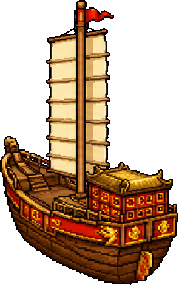
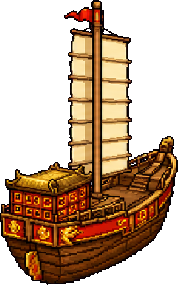
CPDD 英文名 · 船的对角精灵镜像修复 (20260817e)
CPDD 对齐（owner）：英文改成 CPDD 的说法，中文一个字没动
- The Beginner's Pier / G1 Basic Chinese / G2 Chinese / G3 Chinese / G3 Higher Chinese
- index.html 落地卡 4 + 海图牌 5，XH_index.html 顶栏 1，guide.html STATIONS 8
  共 18 处，改完逐条 assert 过唯一性
- 英文带年级前缀与中文那行重复了一次 G1，这是 owner 要的口径，不是疏漏

bug: 码头→G3 船用侧舷在走（owner）
航向数学是对的，headingAt 一行都没改 —— 错的是美术。
码头→G3 方位角 −38.8°（右上），落进 away_diag 桶不翻转，
而 boat_t1_away_diag.png 的船身轴画成 +27°（右下），整整反了一个镜像，
船身与航向差 65.8°，那正是侧舷在前。
只有这一条航线会踩到：dock 出发的另外三条落在 broadside 与 away 桶里。

t2 是对的（与旧的 art/seamap/boat_*.png 逐字节相同，代码当初照着它写）。
t1/t3/t4 三套新美术的 away_diag 全部反了，toward_diag 四套都对。
修法是水平镜像，无重采样无调色板变化，不碰像素画缩放陷阱。
原件留在 archived_art/。

PCA 必须量船身不能量整张图：t3/t4 带桅杆，整张 alpha 的主轴被桅杆和帆主导，
量出来是 −87°/+79° 这种垂直值，完全看不出问题；只取画面下 45% 才读到
真实的 +26.3°/+20.6°。第一遍被桅杆骗过去、差点判 t3/t4 没问题。

实测：码头→G3 船身/航向夹角 65.8° → 11.8°，其余航线一度未变；
四个 tier 的 away_diag 与 toward_diag 现在符号一致。

diff --git a/index.html b/index.html
@@ -5,7 +5,7 @@
 <meta name="viewport" content="width=device-width, initial-scale=1.0">
 <title>词山学海 · Vocab Summit · 百德中学</title>
 <link href="https://fonts.googleapis.com/css2?family=Noto+Serif+SC:wght@700;900&family=Noto+Sans+SC:wght@400;500;700&display=swap" rel="stylesheet">
-<link rel="stylesheet" href="css/app.css?v=20260817d">
+<link rel="stylesheet" href="css/app.css?v=20260817e">
 </head>
 <body class="lp-body">
 
@@ -24,13 +24,13 @@
 
   <div class="lp-cards" id="lpCards" style="display:none">
     <a class="lp-card" href="G1_index.html"><span class="lp-plq p1"></span>
-      <div><b>词星大冒险</b><span class="pylab xh-py xh-uipy">cí xīng dà mào xiǎn</span><span class="lv">G1 基础华文<span class="enlab xh-en">Foundation Chinese</span></span></div></a>
+      <div><b>词星大冒险</b><span class="pylab xh-py xh-uipy">cí xīng dà mào xiǎn</span><span class="lv">G1 基础华文<span class="enlab xh-en">G1 Basic Chinese</span></span></div></a>
     <a class="lp-card" href="G2_index.html"><span class="lp-plq p2"></span>
-      <div><b>词将竞技场</b><span class="pylab xh-py xh-uipy">cí jiàng jìng jì chǎng</span><span class="lv">G2 华文<span class="enlab xh-en">Chinese</span></span></div></a>
+      <div><b>词将竞技场</b><span class="pylab xh-py xh-uipy">cí jiàng jìng jì chǎng</span><span class="lv">G2 华文<span class="enlab xh-en">G2 Chinese</span></span></div></a>
     <a class="lp-card" href="G3_index.html"><span class="lp-plq p3"></span>
-      <div><b>词王淬炼坊</b><span class="pylab xh-py xh-uipy">cí wáng cuì liàn fáng</span><span class="lv">G3 华文<span class="enlab xh-en">Express Chinese</span></span></div></a>
+      <div><b>词王淬炼坊</b><span class="pylab xh-py xh-uipy">cí wáng cuì liàn fáng</span><span class="lv">G3 华文<span class="enlab xh-en">G3 Chinese</span></span></div></a>
     <a class="lp-card" href="HCL_index.html"><span class="lp-plq p4"></span>
-      <div><b>词圣鸿文苑</b><span class="pylab xh-py xh-uipy">cí shèng hóng wén yuàn</span><span class="lv">G3 高级华文<span class="enlab xh-en">Higher Chinese</span></span></div></a>
+      <div><b>词圣鸿文苑</b><span class="pylab xh-py xh-uipy">cí shèng hóng wén yuàn</span><span class="lv">G3 高级华文<span class="enlab xh-en">G3 Higher Chinese</span></span></div></a>
   </div>
 
 <!-- ===== 航海选择页 · sea map =====
@@ -52,25 +52,25 @@
   <button class="sea-isle i-g2" data-go="G2_index.html"
           aria-label="前往 词将竞技场 · G2 华文">
     <img src="art/seamap/island_g2.png" alt="">
-    <span class="sea-label"><b>词将竞技场</b><span class="pylab xh-py xh-uipy">cí jiàng jìng jì chǎng</span><span class="lv">G2 华文<span class="enlab xh-en">Chinese</span></span></span>
+    <span class="sea-label"><b>词将竞技场</b><span class="pylab xh-py xh-uipy">cí jiàng jìng jì chǎng</span><span class="lv">G2 华文<span class="enlab xh-en">G2 Chinese</span></span></span>
   </button>
 
   <button class="sea-isle i-g3" data-go="G3_index.html"
           aria-label="前往 词王淬炼坊 · G3 华文">
     <img src="art/seamap/island_g3.png" alt="">
-    <span class="sea-label"><b>词王淬炼坊</b><span class="pylab xh-py xh-uipy">cí wáng cuì liàn fáng</span><span class="lv">G3 华文<span class="enlab xh-en">Express Chinese</span></span></span>
+    <span class="sea-label"><b>词王淬炼坊</b><span class="pylab xh-py xh-uipy">cí wáng cuì liàn fáng</span><span class="lv">G3 华文<span class="enlab xh-en">G3 Chinese</span></span></span>
   </button>
 
   <button class="sea-isle i-hcl" data-go="HCL_index.html"
           aria-label="前往 词圣鸿文苑 · G3 高级华文">
     <img src="art/seamap/island_hcl.png" alt="">
-    <span class="sea-label"><b>词圣鸿文苑</b><span class="pylab xh-py xh-uipy">cí shèng hóng wén yuàn</span><span class="lv">G3 高级华文<span class="enlab xh-en">Higher Chinese</span></span></span>
+    <span class="sea-label"><b>词圣鸿文苑</b><span class="pylab xh-py xh-uipy">cí shèng hóng wén yuàn</span><span class="lv">G3 高级华文<span class="enlab xh-en">G3 Higher Chinese</span></span></span>
   </button>
 
   <button class="sea-isle i-g1" data-go="G1_index.html"
           aria-label="前往 词星大冒险 · G1 基础华文">
     <img src="art/seamap/island_g1.png" alt="">
-    <span class="sea-label"><b>词星大冒险</b><span class="pylab xh-py xh-uipy">cí xīng dà mào xiǎn</span><span class="lv">G1 基础华文<span class="enlab xh-en">Foundation Chinese</span></span></span>
+    <span class="sea-label"><b>词星大冒险</b><span class="pylab xh-py xh-uipy">cí xīng dà mào xiǎn</span><span class="lv">G1 基础华文<span class="enlab xh-en">G1 Basic Chinese</span></span></span>
   </button>
 
   <button class="sea-isle i-dock" data-go="XH_index.html"
@@ -79,7 +79,7 @@
     <!-- ⚠ every other isle's .lv is the TIER (「G1 基础华文」); this one said
          「看图学词」, a single activity, and one whose name has since changed to
          词语闪卡. The aria-label above was already right. -->
-    <span class="sea-label"><b>启航码头</b><span class="pylab xh-py xh-uipy">qǐ háng mǎ tóu</span><span class="lv">学海启航<span class="enlab xh-en">Setting sail — the beginner tier</span></span></span>
+    <span class="sea-label"><b>启航码头</b><span class="pylab xh-py xh-uipy">qǐ háng mǎ tóu</span><span class="lv">学海启航<span class="enlab xh-en">The Beginner's Pier</span></span></span>
   </button>
 
   <span class="sea-boat h-away_diag" id="lpBoat" aria-hidden="true"><img src="art/seamap/boat_away_diag.png" alt=""></span>
@@ -97,9 +97,9 @@
 <script src="https://www.gstatic.com/firebasejs/10.14.1/firebase-app-compat.js"></script>
 <script src="https://www.gstatic.com/firebasejs/10.14.1/firebase-auth-compat.js"></script>
 <script src="https://www.gstatic.com/firebasejs/10.14.1/firebase-firestore-compat.js"></script>
-<script src="js/firebase-init.js?v=20260817d"></script>
-<script src="js/profile.js?v=20260817d"></script>
-<script src="js/search.js?v=20260817d"></script>
-<script src="js/nickname.js?v=20260817d"></script>
+<script src="js/firebase-init.js?v=20260817e"></script>
+<script src="js/profile.js?v=20260817e"></script>
+<script src="js/search.js?v=20260817e"></script>
+<script src="js/nickname.js?v=20260817e"></script>
 </body>
 </html>

diff --git a/guide.html b/guide.html
@@ -1198,26 +1198,26 @@ body.L-both .demo-head .en{font-size:12.5px}
   ];
 
   var STATIONS = [
-    { img: "art/seamap/dock_jetty.png", zh: "启航码头", en: "The Departure Pier",
+    { img: "art/seamap/dock_jetty.png", zh: "启航码头", en: "The Beginner's Pier",
       lv: "学海启航 · pre-G1", href: "XH_index.html",
       dzh: "零起点。看图学词，从第一个汉字开始。149 个词，八个组别。",
       den: "Starting from zero. Words learned from pictures, from the very first character. 149 words in eight groups." },
-    { img: "art/seamap/island_g1.png", zh: "词星大冒险", en: "G1 · 基础华文",
+    { img: "art/seamap/island_g1.png", zh: "词星大冒险", en: "G1 Basic Chinese",
       lv: "426 词", href: "G1_index.html",
       dzh: "G1 基础华文。三个板块：核心 · 生活空间 · 文化站。",
-      den: "G1 Foundation Chinese. Three component blocks: core, everyday life, culture." },
-    { img: "art/seamap/island_g2.png", zh: "词将竞技场", en: "G2 · 华文",
+      den: "G1 Basic Chinese. Three component blocks: core, everyday life, culture." },
+    { img: "art/seamap/island_g2.png", zh: "词将竞技场", en: "G2 Chinese",
       lv: "814 词", href: "G2_index.html",
       dzh: "G2 华文。四个板块，多一层「巩固」。",
       den: "G2 Chinese. Four component blocks, adding consolidation." },
-    { img: "art/seamap/island_g3.png", zh: "词王淬炼坊", en: "G3 · 快捷华文",
+    { img: "art/seamap/island_g3.png", zh: "词王淬炼坊", en: "G3 Chinese",
       lv: "1,069 词", href: "G3_index.html",
       dzh: "G3 快捷华文。四个板块，另有 词语汉兜 猜字游戏。",
-      den: "G3 Express Chinese. Four component blocks, plus the character-guessing game." },
-    { img: "art/seamap/island_hcl.png", zh: "词圣鸿文苑", en: "Higher Chinese",
+      den: "G3 Chinese. Four component blocks, plus the character-guessing game." },
+    { img: "art/seamap/island_hcl.png", zh: "词圣鸿文苑", en: "G3 Higher Chinese",
       lv: "1,432 词", href: "HCL_index.html",
       dzh: "高级华文。五个板块，多一层「进阶」。⚠ 这一层不发拼音与英文注解。",
-      den: "Higher Chinese. Five component blocks, adding an advanced tier. ⚠ This tier ships no pinyin or English aids." }
+      den: "G3 Higher Chinese. Five component blocks, adding an advanced tier. ⚠ This tier ships no pinyin or English aids." }
   ];
 
   var MTN_STUDY = [

diff --git a/XH_index.html b/XH_index.html
@@ -19,7 +19,7 @@
      than any duplication. app.css is still NEVER loaded; the handful of rules
      those two files need are copied into xh.css. Progress stays sealed: nothing
      here reads or writes ws2_*. -->
-<link rel="stylesheet" href="css/xh.css?v=20260817d">
+<link rel="stylesheet" href="css/xh.css?v=20260817e">
 </head>
 <body>
 
@@ -38,7 +38,7 @@
          names the stream's LEVEL (app.js setTopbar: 词山学海 Vocab Summit · G2
          普通学术华文). The pier is a tier of the same platform, so it says so.
          ⚠ The pinyin covers the WHOLE visible Chinese string, not just the tail. -->
-    <div class="lv">词山学海 Vocab Summit · 学海启航<span class="xh-uipy">cí shān xué hǎi · xué hǎi qǐ háng</span><span class="xh-en">Setting sail — the beginner tier</span></div>
+    <div class="lv">词山学海 Vocab Summit · 学海启航<span class="xh-uipy">cí shān xué hǎi · xué hǎi qǐ háng</span><span class="xh-en">The Beginner's Pier</span></div>
   </div>
   <div class="xh-tools" id="xhTools"></div>
 </div>
@@ -48,11 +48,11 @@
 <script src="https://www.gstatic.com/firebasejs/10.14.1/firebase-app-compat.js"></script>
 <script src="https://www.gstatic.com/firebasejs/10.14.1/firebase-auth-compat.js"></script>
 <script src="https://www.gstatic.com/firebasejs/10.14.1/firebase-firestore-compat.js"></script>
-<script src="js/firebase-init.js?v=20260817d"></script>
-<script src="js/profile.js?v=20260817d"></script>
-<script src="js/nickname.js?v=20260817d"></script>
-<script src="js/search.js?v=20260817d"></script>
-<script src="js/tts.js?v=20260817d"></script>
-<script src="js/xh.js?v=20260817d"></script>
+<script src="js/firebase-init.js?v=20260817e"></script>
+<script src="js/profile.js?v=20260817e"></script>
+<script src="js/nickname.js?v=20260817e"></script>
+<script src="js/search.js?v=20260817e"></script>
+<script src="js/tts.js?v=20260817e"></script>
+<script src="js/xh.js?v=20260817e"></script>
 </body>
 </html>

diff --git a/HCL_index.html b/HCL_index.html
@@ -5,7 +5,7 @@
 <meta name="viewport" content="width=device-width, initial-scale=1.0">
 <title>词圣鸿文苑 · 词山学海 Vocab Summit</title>
 <link href="https://fonts.googleapis.com/css2?family=Noto+Serif+SC:wght@700;900&family=Noto+Sans+SC:wght@400;500;700&display=swap" rel="stylesheet">
-<link rel="stylesheet" href="css/app.css?v=20260817d">
+<link rel="stylesheet" href="css/app.css?v=20260817e">
 <script>window.STREAM = "hcl";</script>
 </head>
 <body>
@@ -13,12 +13,12 @@
 <script src="https://www.gstatic.com/firebasejs/10.14.1/firebase-app-compat.js"></script>
 <script src="https://www.gstatic.com/firebasejs/10.14.1/firebase-auth-compat.js"></script>
 <script src="https://www.gstatic.com/firebasejs/10.14.1/firebase-firestore-compat.js"></script>
-<script src="js/firebase-init.js?v=20260817d"></script>
-<script src="js/profile.js?v=20260817d"></script>
-<script src="js/podium.js?v=20260817d"></script>
-<script src="js/arena.js?v=20260817d"></script>
-<script src="js/search.js?v=20260817d"></script>
-<script src="js/tts.js?v=20260817d"></script>
-<script src="js/app.js?v=20260817d"></script>
+<script src="js/firebase-init.js?v=20260817e"></script>
+<script src="js/profile.js?v=20260817e"></script>
+<script src="js/podium.js?v=20260817e"></script>
+<script src="js/arena.js?v=20260817e"></script>
+<script src="js/search.js?v=20260817e"></script>
+<script src="js/tts.js?v=20260817e"></script>
+<script src="js/app.js?v=20260817e"></script>
 </body>
 </html>

diff --git a/G1_index.html b/G1_index.html
@@ -5,7 +5,7 @@
 <meta name="viewport" content="width=device-width, initial-scale=1.0">
 <title>词星大冒险 · 词山学海 Vocab Summit</title>
 <link href="https://fonts.googleapis.com/css2?family=Noto+Serif+SC:wght@700;900&family=Noto+Sans+SC:wght@400;500;700&display=swap" rel="stylesheet">
-<link rel="stylesheet" href="css/app.css?v=20260817d">
+<link rel="stylesheet" href="css/app.css?v=20260817e">
 <script>window.STREAM = "g1";</script>
 </head>
 <body>
@@ -13,12 +13,12 @@
 <script src="https://www.gstatic.com/firebasejs/10.14.1/firebase-app-compat.js"></script>
 <script src="https://www.gstatic.com/firebasejs/10.14.1/firebase-auth-compat.js"></script>
 <script src="https://www.gstatic.com/firebasejs/10.14.1/firebase-firestore-compat.js"></script>
-<script src="js/firebase-init.js?v=20260817d"></script>
-<script src="js/profile.js?v=20260817d"></script>
-<script src="js/podium.js?v=20260817d"></script>
-<script src="js/arena.js?v=20260817d"></script>
-<script src="js/search.js?v=20260817d"></script>
-<script src="js/tts.js?v=20260817d"></script>
-<script src="js/app.js?v=20260817d"></script>
+<script src="js/firebase-init.js?v=20260817e"></script>
+<script src="js/profile.js?v=20260817e"></script>
+<script src="js/podium.js?v=20260817e"></script>
+<script src="js/arena.js?v=20260817e"></script>
+<script src="js/search.js?v=20260817e"></script>
+<script src="js/tts.js?v=20260817e"></script>
+<script src="js/app.js?v=20260817e"></script>
 </body>
 </html>

diff --git a/G2_index.html b/G2_index.html
@@ -5,7 +5,7 @@
 <meta name="viewport" content="width=device-width, initial-scale=1.0">
 <title>词将竞技场 · 词山学海 Vocab Summit</title>
 <link href="https://fonts.googleapis.com/css2?family=Noto+Serif+SC:wght@700;900&family=Noto+Sans+SC:wght@400;500;700&display=swap" rel="stylesheet">
-<link rel="stylesheet" href="css/app.css?v=20260817d">
+<link rel="stylesheet" href="css/app.css?v=20260817e">
 <script>window.STREAM = "g2";</script>
 </head>
 <body>
@@ -13,12 +13,12 @@
 <script src="https://www.gstatic.com/firebasejs/10.14.1/firebase-app-compat.js"></script>
 <script src="https://www.gstatic.com/firebasejs/10.14.1/firebase-auth-compat.js"></script>
 <script src="https://www.gstatic.com/firebasejs/10.14.1/firebase-firestore-compat.js"></script>
-<script src="js/firebase-init.js?v=20260817d"></script>
-<script src="js/profile.js?v=20260817d"></script>
-<script src="js/podium.js?v=20260817d"></script>
-<script src="js/arena.js?v=20260817d"></script>
-<script src="js/search.js?v=20260817d"></script>
-<script src="js/tts.js?v=20260817d"></script>
-<script src="js/app.js?v=20260817d"></script>
+<script src="js/firebase-init.js?v=20260817e"></script>
+<script src="js/profile.js?v=20260817e"></script>
+<script src="js/podium.js?v=20260817e"></script>
+<script src="js/arena.js?v=20260817e"></script>
+<script src="js/search.js?v=20260817e"></script>
+<script src="js/tts.js?v=20260817e"></script>
+<script src="js/app.js?v=20260817e"></script>
 </body>
 </html>

diff --git a/G3_index.html b/G3_index.html
@@ -5,7 +5,7 @@
 <meta name="viewport" content="width=device-width, initial-scale=1.0">
 <title>词王淬炼坊 · 词山学海 Vocab Summit</title>
 <link href="https://fonts.googleapis.com/css2?family=Noto+Serif+SC:wght@700;900&family=Noto+Sans+SC:wght@400;500;700&display=swap" rel="stylesheet">
-<link rel="stylesheet" href="css/app.css?v=20260817d">
+<link rel="stylesheet" href="css/app.css?v=20260817e">
 <script>window.STREAM = "g3";</script>
 </head>
 <body>
@@ -13,12 +13,12 @@
 <script src="https://www.gstatic.com/firebasejs/10.14.1/firebase-app-compat.js"></script>
 <script src="https://www.gstatic.com/firebasejs/10.14.1/firebase-auth-compat.js"></script>
 <script src="https://www.gstatic.com/firebasejs/10.14.1/firebase-firestore-compat.js"></script>
-<script src="js/firebase-init.js?v=20260817d"></script>
-<script src="js/profile.js?v=20260817d"></script>
-<script src="js/podium.js?v=20260817d"></script>
-<script src="js/arena.js?v=20260817d"></script>
-<script src="js/search.js?v=20260817d"></script>
-<script src="js/tts.js?v=20260817d"></script>
-<script src="js/app.js?v=20260817d"></script>
+<script src="js/firebase-init.js?v=20260817e"></script>
+<script src="js/profile.js?v=20260817e"></script>
+<script src="js/podium.js?v=20260817e"></script>
+<script src="js/arena.js?v=20260817e"></script>
+<script src="js/search.js?v=20260817e"></script>
+<script src="js/tts.js?v=20260817e"></script>
+<script src="js/app.js?v=20260817e"></script>
 </body>
 </html>

diff --git a/teacher.html b/teacher.html
@@ -375,7 +375,7 @@ code{font-family:ui-monospace,Menlo,Consolas,monospace;font-size:12px;word-break
 <!-- ⚠ the ONE shared JS this page loads. podium.js has no dependencies and no state:
      the「teacher.html is standalone」rule is about app.css/app.js/profile.js, which carry
      the student engine. Duplicating a 200-line podium + confetti engine would be worse. -->
-<script src="js/podium.js?v=20260817d"></script>
+<script src="js/podium.js?v=20260817e"></script>
 <script>
 (function () {
   "use strict";
@@ -383,7 +383,7 @@ code{font-family:ui-monospace,Menlo,Consolas,monospace;font-size:12px;word-break
      teacher.html is standalone — it loads no local .js, so unlike app.js/arena.js
      it cannot read the version off its own <script> tag. This is a LITERAL and is
      the ONE place outside the 5 HTML entry points that needs the same date. */
-  var ASSET_V = "?v=20260817d";
+  var ASSET_V = "?v=20260817e";
   var firebaseConfig = {
     apiKey: "AIzaSyBX-U43naSZRjDNdjQBnwVO7ArJhZipifY",
     authDomain: "vocabsummit.firebaseapp.com",
